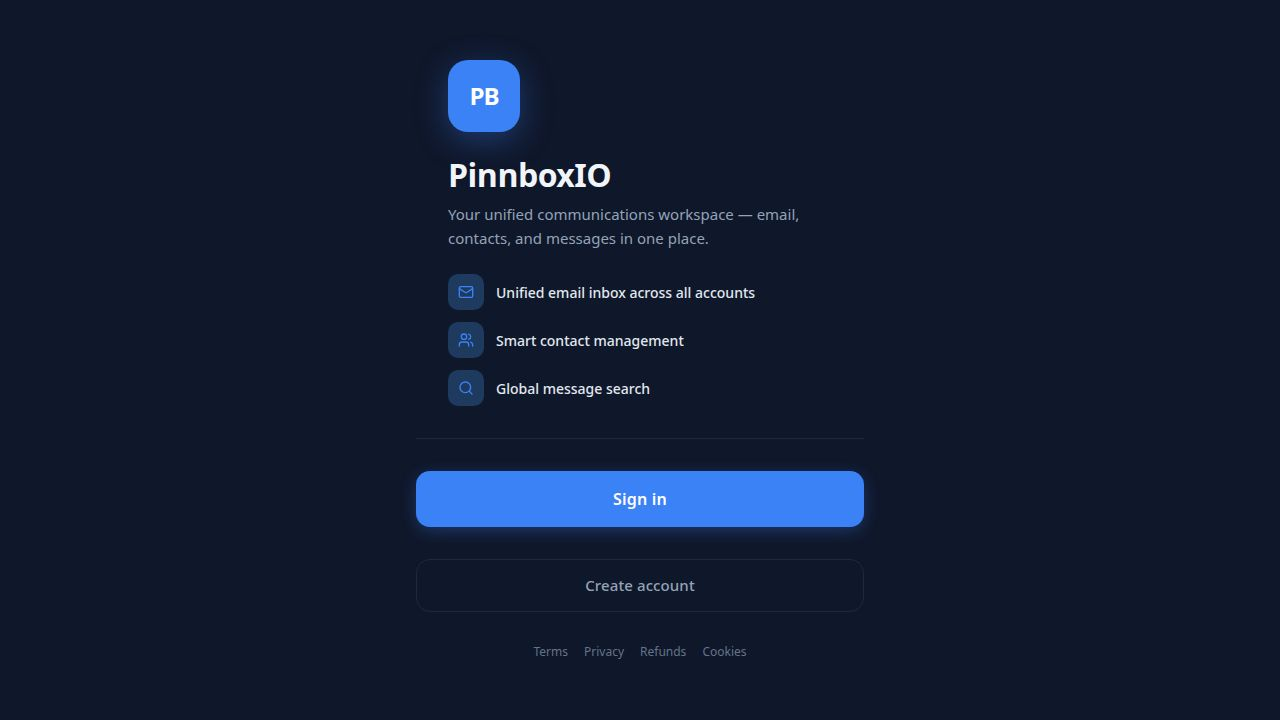
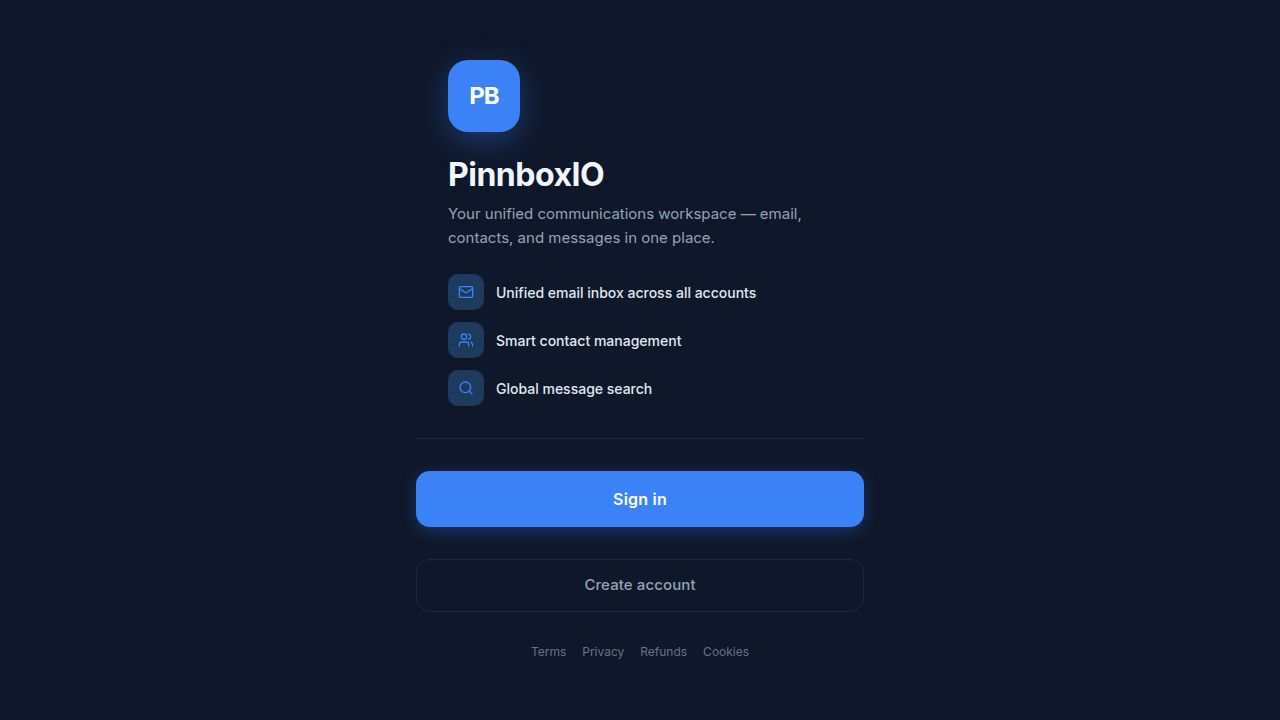
Improve inbox message display with sticky toolbar and visible scrollbars
Restructure layout to move footer out of main content, and replace custom scrollbars with native ones in the message detail view for improved usability and consistent display.

Replit-Commit-Author: Agent
Replit-Commit-Session-Id: 7a681580-3e33-4b34-8019-9d68c79410f8
Replit-Commit-Checkpoint-Type: full_checkpoint
Replit-Commit-Event-Id: 8fc62367-9490-46aa-be32-e208ba2511e4
Replit-Commit-Screenshot-Url: https://storage.googleapis.com/screenshot-production-us-central1/38defd90-5362-4523-ab8a-d909d0a8000a/7a681580-3e33-4b34-8019-9d68c79410f8/nj2fVqD
Replit-Helium-Checkpoint-Created: true

diff --git a/artifacts/unified-comms/src/components/layout.tsx b/artifacts/unified-comms/src/components/layout.tsx
@@ -192,30 +192,30 @@ export function Layout({ children }: { children: React.ReactNode }) {
 
       {/* Main Content */}
       <div className="flex-1 flex flex-col overflow-hidden bg-background">
-        <main className="flex-1 overflow-auto relative">
+        <main className="flex-1 overflow-auto relative min-h-0">
           {children}
-          <footer className="border-t border-border px-6 py-4 mt-8">
-            <div className="flex flex-wrap items-center justify-between gap-3">
-              <p className="text-xs text-muted-foreground">© {new Date().getFullYear()} PinnboxIO. All rights reserved.</p>
-              <nav className="flex flex-wrap items-center gap-4">
-                {[
-                  { href: "/privacy", label: "Privacy Policy" },
-                  { href: "/terms", label: "Terms of Service" },
-                  { href: "/refunds", label: "Refunds & Cancellations" },
-                  { href: "/cookies", label: "Cookie Policy" },
-                ].map((item) => (
-                  <a
-                    key={item.href}
-                    href={item.href}
-                    className="text-xs text-muted-foreground hover:text-foreground transition-colors"
-                  >
-                    {item.label}
-                  </a>
-                ))}
-              </nav>
-            </div>
-          </footer>
         </main>
+        <footer className="border-t border-border px-6 py-4 flex-shrink-0">
+          <div className="flex flex-wrap items-center justify-between gap-3">
+            <p className="text-xs text-muted-foreground">© {new Date().getFullYear()} PinnboxIO. All rights reserved.</p>
+            <nav className="flex flex-wrap items-center gap-4">
+              {[
+                { href: "/privacy", label: "Privacy Policy" },
+                { href: "/terms", label: "Terms of Service" },
+                { href: "/refunds", label: "Refunds & Cancellations" },
+                { href: "/cookies", label: "Cookie Policy" },
+              ].map((item) => (
+                <a
+                  key={item.href}
+                  href={item.href}
+                  className="text-xs text-muted-foreground hover:text-foreground transition-colors"
+                >
+                  {item.label}
+                </a>
+              ))}
+            </nav>
+          </div>
+        </footer>
       </div>
 
       <ComposeModal open={isComposeOpen} onOpenChange={setIsComposeOpen} />

diff --git a/artifacts/unified-comms/src/pages/inbox.tsx b/artifacts/unified-comms/src/pages/inbox.tsx
@@ -384,14 +384,14 @@ export default function Inbox() {
   // ----- Message Detail -----
   const messageDetailView = (
     <div className="flex flex-col h-full bg-background">
-      {/* Back bar */}
-      <div className="h-13 px-4 border-b flex items-center gap-3 shrink-0 bg-background/95 backdrop-blur z-10">
+      {/* Sticky top toolbar */}
+      <div className="sticky top-0 z-10 px-4 py-2 border-b flex items-center gap-3 shrink-0 bg-background/95 backdrop-blur">
         <Button variant="ghost" size="sm" className="gap-1.5 px-2 text-muted-foreground hover:text-foreground" onClick={handleBackToList}>
           <ChevronLeft className="h-4 w-4" />
           Back
         </Button>
         {!messageLoading && activeMessage && (
-          <div className="flex items-center gap-1 ml-auto">
+          <div className="flex items-center gap-1 ml-auto flex-wrap">
             <Button variant="ghost" size="sm" className="gap-1" onClick={() => openComposeAction("reply")}>
               <Reply className="h-4 w-4" /><span className="hidden sm:inline">Reply</span>
             </Button>
@@ -404,7 +404,7 @@ export default function Inbox() {
             <Button variant="ghost" size="icon" onClick={e => handleToggleRead(activeMessage.id, activeMessage.isRead, e)}>
               <InboxIcon className="h-4 w-4 text-muted-foreground" />
             </Button>
-            <div className="hidden md:flex items-center gap-1 rounded-md border bg-background ml-2">
+            <div className="flex items-center gap-1 rounded-md border bg-background ml-2">
               <Button variant="ghost" size="icon" className="h-8 w-8" onClick={() => setBodyZoom(z => Math.max(80, z - 10))}><ZoomOut className="h-4 w-4" /></Button>
               <button className="text-xs font-medium text-muted-foreground min-w-10" onClick={() => setBodyZoom(100)}>{bodyZoom}%</button>
               <Button variant="ghost" size="icon" className="h-8 w-8" onClick={() => setBodyZoom(z => Math.min(160, z + 10))}><ZoomIn className="h-4 w-4" /></Button>
@@ -420,13 +420,13 @@ export default function Inbox() {
       </div>
 
       {messageLoading ? (
-        <div className="p-8 space-y-6">
+        <div className="p-8 space-y-6 overflow-y-auto flex-1">
           <div className="space-y-2"><Skeleton className="h-8 w-3/4" /><Skeleton className="h-4 w-1/4" /></div>
           <div className="flex gap-4 items-center"><Skeleton className="h-10 w-10 rounded-full" /><div className="space-y-2"><Skeleton className="h-4 w-48" /><Skeleton className="h-3 w-32" /></div></div>
           <div className="space-y-3 pt-6"><Skeleton className="h-4 w-full" /><Skeleton className="h-4 w-full" /><Skeleton className="h-4 w-5/6" /></div>
         </div>
       ) : activeMessage ? (
-        <ScrollArea className="flex-1">
+        <div className="flex-1 overflow-y-auto">
           <div className="p-6 md:p-8 max-w-4xl mx-auto">
             <div className="mb-8">
               <h1 className="text-2xl font-bold text-foreground tracking-tight leading-tight mb-4">{activeMessage.subject}</h1>
@@ -517,7 +517,7 @@ export default function Inbox() {
               </div>
             )}
           </div>
-        </ScrollArea>
+        </div>
       ) : null}
     </div>
   );
@@ -525,7 +525,7 @@ export default function Inbox() {
   // Mobile and desktop both now use the same drill-down pattern
   if (selectedMessageId) {
     return (
-      <div className="h-full bg-background overflow-hidden">
+      <div className="h-full flex flex-col bg-background">
         {messageDetailView}
         <ComposeModal open={isComposeOpen} onOpenChange={setIsComposeOpen} initialDraft={composeDraft} />
         <PreviewPanel item={previewItem} onClose={() => setPreviewItem(null)} />
@@ -534,7 +534,7 @@ export default function Inbox() {
   }
 
   return (
-    <div className="h-full bg-background overflow-hidden">
+    <div className="h-full flex flex-col bg-background overflow-hidden">
       {messageListView}
       <ComposeModal open={isComposeOpen} onOpenChange={setIsComposeOpen} initialDraft={composeDraft} />
       <PreviewPanel item={previewItem} onClose={() => setPreviewItem(null)} />